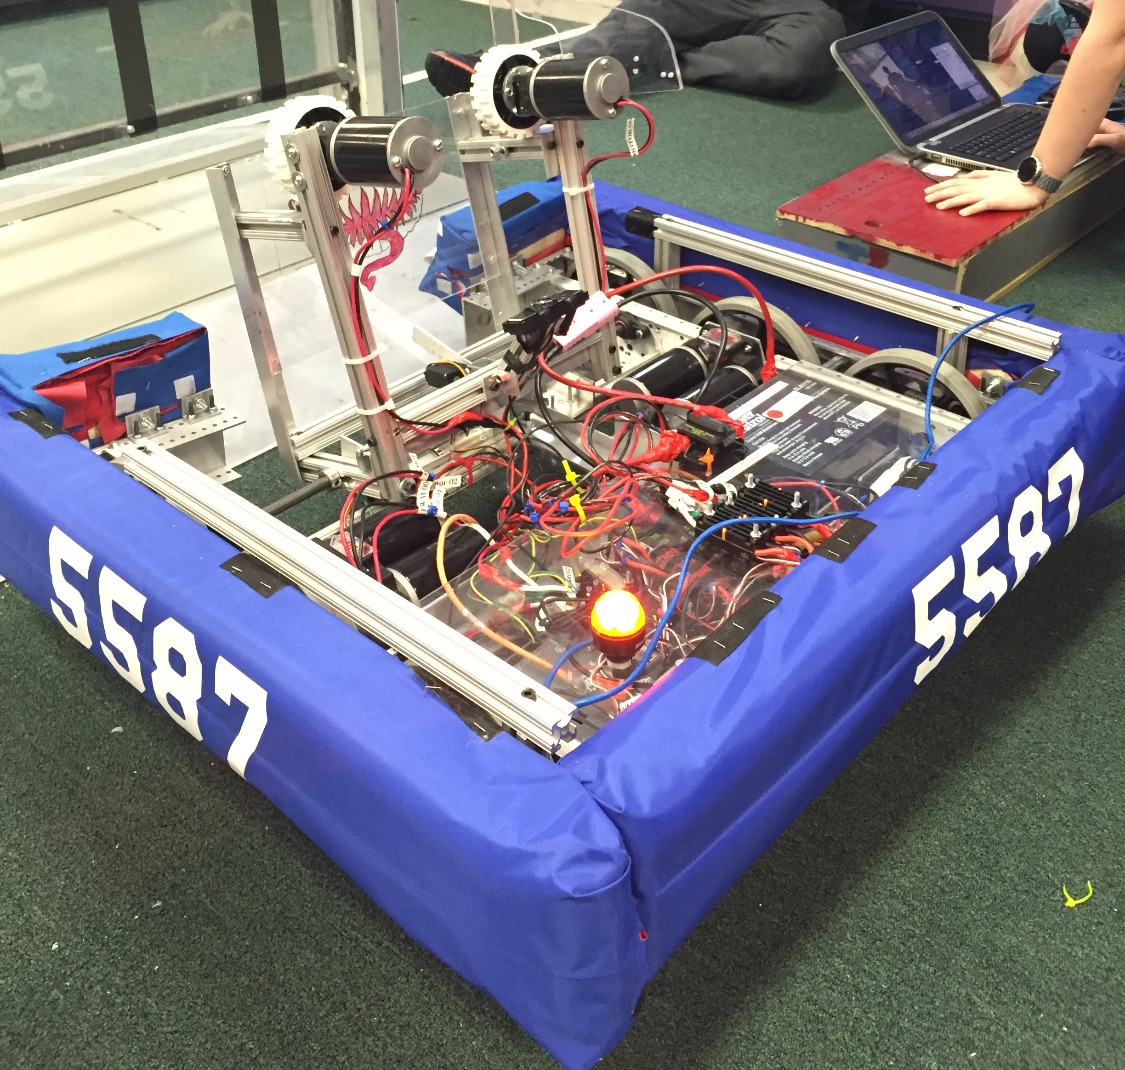
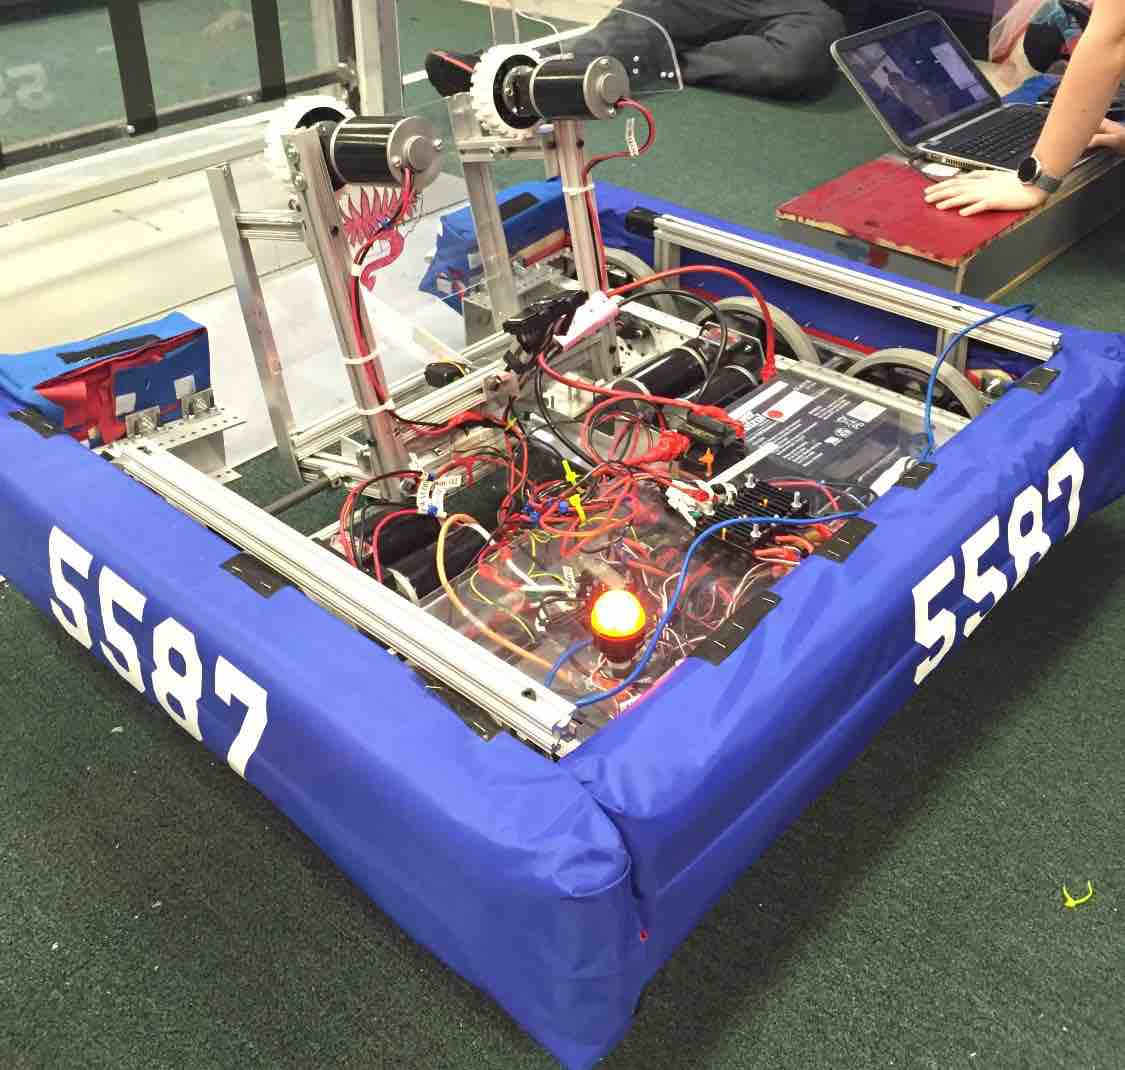
Compressed all of the images on the Robots page. 2015 may still need more compression.

diff --git a/_pages/robots.html b/_pages/robots.html
@@ -23,7 +23,7 @@ stylesheets:
 <div class="content panel-body">
     <div class="panel-body col-md-4 robot-card">
         <div class="robot-picture" >
-            <img src="photos/Robots/Good Vibes.png">
+            <img src="photos/Robots/goodVibesCopy.jpg">
         </div>
         <div class="panel-body">
             <h1>2017</h1>
